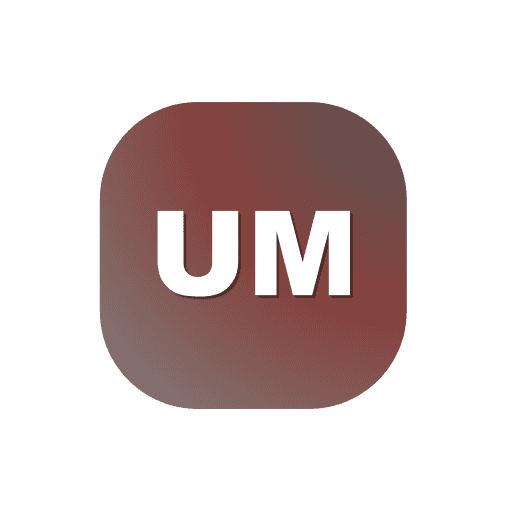
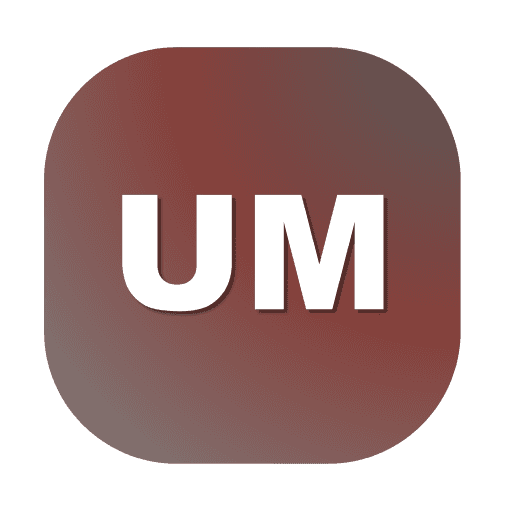
less padding on images
then

npm run generate-pwa-assets

diff --git a/pwa-assets.config.ts b/pwa-assets.config.ts
@@ -1,0 +1,12 @@
+// pwa-assets.config.ts
+import { defineConfig, minimal2023Preset } from '@vite-pwa/assets-generator/config'
+
+export default defineConfig({
+  preset: {
+    ...minimal2023Preset,
+    maskable: {
+      ...minimal2023Preset.maskable,
+      padding: 0.05 // 5% padding instead of the large default
+    }
+  }
+})
